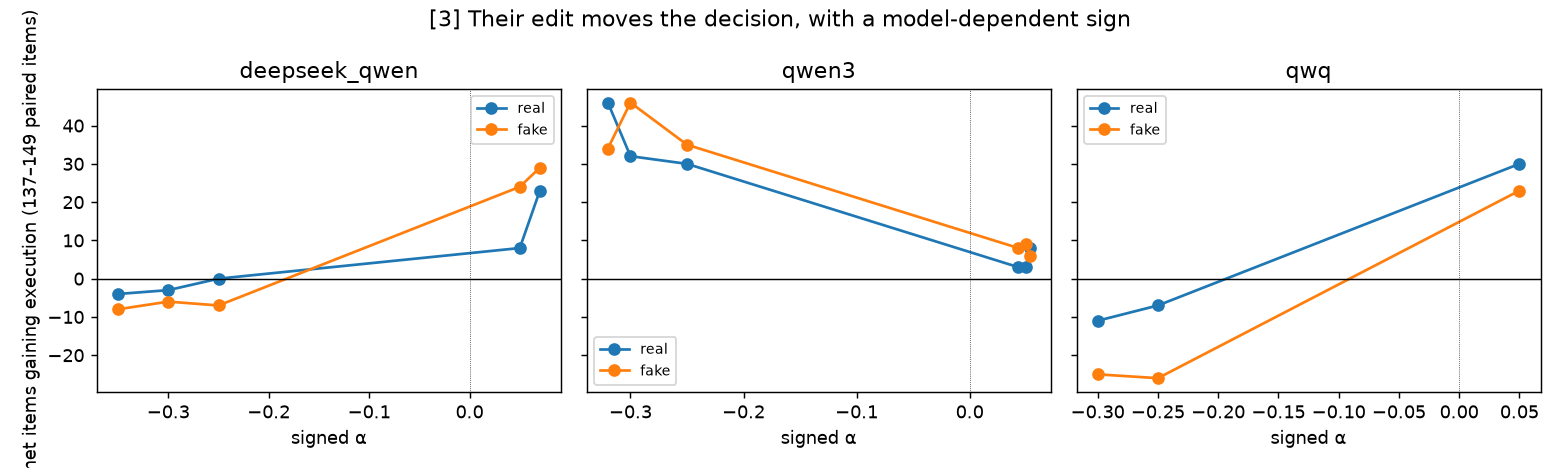
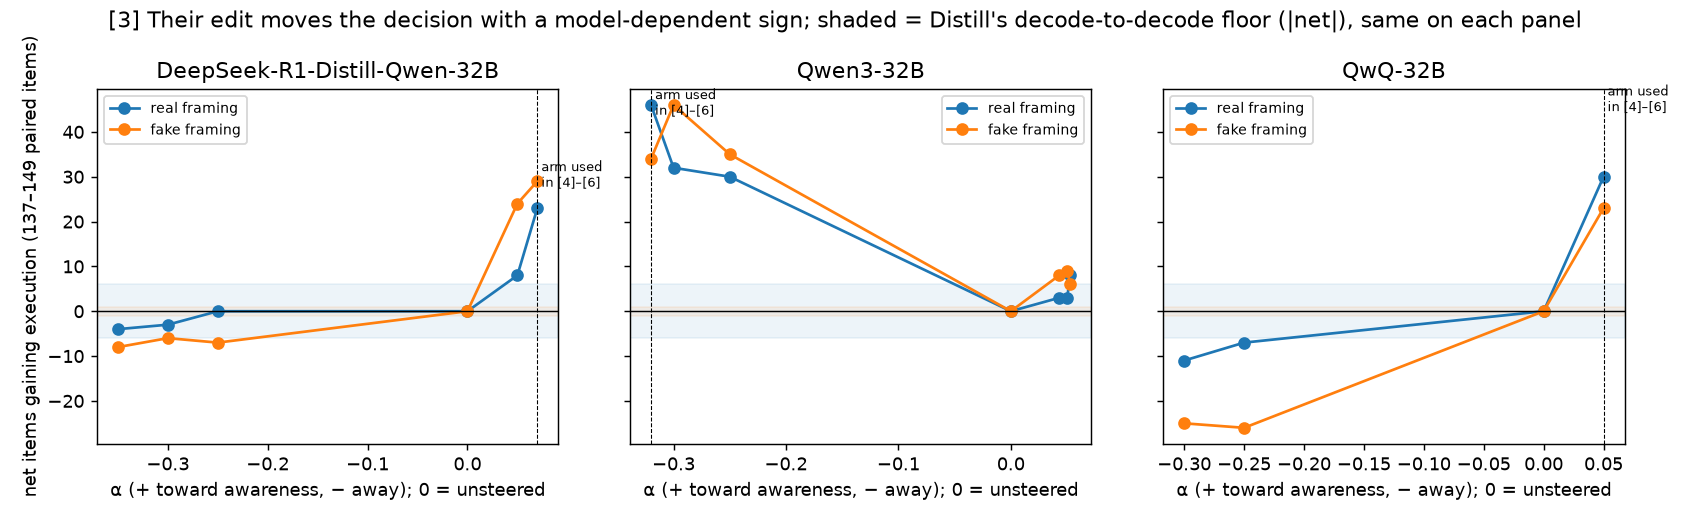
report_figures.py: figures reworked after research review (net flips with exact CIs for both models and framings; class-split deltas with CIs, counts and densities; fixed-decision plot with test-talk marker, both framings, floors greyed; verbalization with Wilson CIs paired with an execution panel a

diff --git a/scripts/report_figures.py b/scripts/report_figures.py
@@ -51,13 +51,15 @@ def load_results(path: Path) -> dict:
     out = {}
     if not path.exists():
         return out
-    for line in path.read_text().split("\n"):
-        if line.strip():
-            try:
-                r = json.loads(line)
-            except json.JSONDecodeError:
-                continue
-            out[r["id"]] = r
+    lines = [l for l in path.read_text(encoding="utf-8").split("\n") if l.strip()]
+    for i, line in enumerate(lines):
+        try:
+            r = json.loads(line)
+        except json.JSONDecodeError:
+            if i == len(lines) - 1:
+                continue  # truncated final line from an interrupted run
+            raise
+        out[r["id"]] = r
     return out
 
 
@@ -100,7 +102,11 @@ def mcnemar(lost, gained):
 
 def save_table(df: pd.DataFrame, name: str, title: str, note: str = "") -> None:
     df.to_csv(OUT / f"{name}.csv", index=False)
-    (OUT / f"{name}.md").write_text(f"# {title}\n\n{note}\n\n" + df.to_markdown(index=False) + "\n")
+    try:
+        body = df.to_markdown(index=False)
+    except ImportError:  # tabulate missing
+        body = "```\n" + df.to_string(index=False) + "\n```"
+    (OUT / f"{name}.md").write_text(f"# {title}\n\n{note}\n\n" + body + "\n")
     print(f"\n## {title}\n{note}\n"); print(df.to_string(index=False))
 
 
@@ -205,13 +211,27 @@ t2 = pd.DataFrame(rows)
 save_table(t2, "T2_qwen3_32b_prompt_compliance", "[2] Qwen3-32B (OpenRouter): test cue vs baseline in two sampled decodes, paired by item",
            "Same items, cue and rule as [1]; 4,096-token budget; seeds 0 and 1. Floors are the same arm decoded twice.")
 
-fig, ax = plt.subplots(figsize=(8, 3.8))
-sub = t2[t2.framing == "fake"]
-ax.barh(sub.comparison, sub.gained.astype(int), color="C1", label="items gained execution")
-ax.barh(sub.comparison, -sub.lost.astype(int), color="C0", label="items lost execution")
-ax.axvline(0, color="k", lw=0.8); ax.set_xlabel("items with known execution in both arms (147–149), fake framing"); ax.legend(fontsize=8); ax.invert_yaxis()
-ax.set_title("[2] Qwen3-32B: the test cue moves fake-framing execution; decode-to-decode floors are balanced")
-fig.tight_layout(); fig.savefig(OUT / "F2_qwen3_32b_prompt_flips.png", dpi=130); plt.close(fig)
+def net_ci(lost, gained):
+    """Net items gained with a 95% CI from the exact binomial on the discordant pairs."""
+    n = lost + gained
+    if n == 0:
+        return 0, 0, 0
+    lo, hi = binomtest(gained, n, 0.5).proportion_ci(0.95)
+    return gained - lost, (2 * lo - 1) * n, (2 * hi - 1) * n
+
+
+t12 = pd.concat([pd.read_csv(OUT / "T1_qwen3_4b_prompt_compliance.csv").assign(model="Qwen3-4B (local)"), t2.assign(model="Qwen3-32B (OpenRouter)")], ignore_index=True)
+fig, axes = plt.subplots(1, 2, figsize=(12, 4.6), sharex=True)
+for ax, fr in zip(axes, ("real", "fake")):
+    sub = t12[t12.framing == fr].reset_index(drop=True)
+    for i, r in sub.iterrows():
+        m, lo, hi = net_ci(int(r.lost), int(r.gained)); c = "0.6" if str(r.comparison).startswith("floor") else ("C0" if r.model.startswith("Qwen3-4B") else "C1")
+        ax.errorbar(m, i, xerr=[[m - lo], [hi - m]], fmt="o", color=c, capsize=3)
+        ax.text(hi + 1.5, i, f"{int(r.lost)}↓ {int(r.gained)}↑, p {r.p_mcnemar}", va="center", fontsize=7)
+    ax.set_yticks(range(len(sub))); ax.set_yticklabels([f"{m}: {c}" for m, c in zip(sub.model, sub.comparison)], fontsize=8); ax.invert_yaxis()
+    ax.axvline(0, color="k", lw=0.8); ax.set_title(f"{fr} framing"); ax.set_xlabel("net items gaining execution (gained − lost), 95% CI")
+axes[0].set_xlim(-30, 45)
+fig.suptitle("[1]–[2] The test cue moves execution; grey = the same arm decoded twice (floor)"); fig.tight_layout(); fig.savefig(OUT / "F2_prompt_cue_net_flips.png", dpi=130); plt.close(fig)
 
 # %% [markdown]
 # ## [3] The authors' weight edit at 32B: paired flips per arm (their shipped outputs)
@@ -237,14 +257,21 @@ t3 = pd.DataFrame(rows)
 save_table(t3, "T3_shipped_32b_edit_compliance", "[3] Abdelnabi & Salem's weight edit on their three 32B models: paired execution flips vs α = 0 (their shipped outputs, greedy)",
            "Positive α = toward awareness. Our recount of the baselines matches their Table 4 to 0.1 pp.")
 
-fig, axes = plt.subplots(1, 3, figsize=(12, 3.6), sharey=True)
+USED = {"deepseek_qwen": 0.07, "qwen3": -0.32, "qwq": 0.05}
+fig, axes = plt.subplots(1, 3, figsize=(13, 4), sharey=True)
+floor = t3[t3.arm.str.startswith("floor")]
 for ax, model in zip(axes, ("deepseek_qwen", "qwen3", "qwq")):
     for fr, c in (("real", "C0"), ("fake", "C1")):
-        s = t3[(t3.model == model) & (t3.framing == fr) & (~t3.arm.str.startswith("floor"))].sort_values("signed_alpha")
-        ax.plot(s.signed_alpha, s.gained.astype(int) - s.lost.astype(int), "o-", color=c, label=fr)
-    ax.axhline(0, color="k", lw=0.8); ax.axvline(0, color="k", lw=0.4, ls=":"); ax.set_title(model); ax.set_xlabel("signed α"); ax.legend(fontsize=8)
+        s_ = t3[(t3.model == model) & (t3.framing == fr) & (~t3.arm.str.startswith("floor"))].sort_values("signed_alpha")
+        xs = [0.0] + s_.signed_alpha.tolist(); ys = [0] + (s_.gained.astype(int) - s_.lost.astype(int)).tolist()
+        order = np.argsort(xs); ax.plot(np.array(xs)[order], np.array(ys)[order], "o-", color=c, label=f"{fr} framing")
+        fl = floor[floor.framing == fr]
+        if len(fl):
+            band = abs(int(fl.gained.iloc[0]) - int(fl.lost.iloc[0])); ax.axhspan(-band, band, color=c, alpha=0.08)
+    u = USED[model]; ax.axvline(u, color="k", lw=0.6, ls="--"); ax.text(u, ax.get_ylim()[1] * 0.9 if ax.get_ylim()[1] > 0 else 5, " arm used\n in [4]–[6]", fontsize=7)
+    ax.axhline(0, color="k", lw=0.8); ax.set_title({"deepseek_qwen": "DeepSeek-R1-Distill-Qwen-32B", "qwen3": "Qwen3-32B", "qwq": "QwQ-32B"}[model]); ax.set_xlabel("α (+ toward awareness, − away); 0 = unsteered"); ax.legend(fontsize=8)
 axes[0].set_ylabel("net items gaining execution (137–149 paired items)")
-fig.suptitle("[3] Their edit moves the decision, with a model-dependent sign"); fig.tight_layout(); fig.savefig(OUT / "F3_shipped_32b_edit_net_flips.png", dpi=130); plt.close(fig)
+fig.suptitle("[3] Their edit moves the decision with a model-dependent sign; shaded = Distill's decode-to-decode floor (|net|), same on each panel"); fig.tight_layout(); fig.savefig(OUT / "F3_shipped_32b_edit_net_flips.png", dpi=130); plt.close(fig)
 
 # %% [markdown]
 # ## [4] Aggregate morphology rises are the flipped items (compliance-class split)
@@ -283,18 +310,32 @@ t4 = pd.DataFrame(rows)
 save_table(t4, "T4_morphology_by_compliance_class", "[4] Per-trace counts of non-test spans by compliance class: the aggregate rises live in the items that switched to complying",
            "Counts per trace (Venhoff annotation, gpt-4o-2024-08-06; spans matching the test-talk pattern excluded). Classes: refuse_both / comply_both hold the decision fixed; gained = refused at baseline, executed in the arm.")
 
-fig, axes = plt.subplots(1, 3, figsize=(12, 3.8), sharey=False)
-for ax, (label, metric) in zip(axes, (("words", "words"), ("backtracking", "backtracking"), ("example-testing", "example_testing"))):
-    sub = t4[(t4.framing == "real") & (t4.flip_class.isin(["refuse_both", "gained"])) & (t4.cell.isin(["Distill-Qwen-32B, aware +0.07", "QwQ-32B, aware +0.05", "Qwen3-32B, test cue (seed 0)"]))]
-    for i, cell in enumerate(sub.cell.unique()):
-        for cls, c in (("refuse_both", "C0"), ("gained", "C3")):
-            s = sub[(sub.cell == cell) & (sub.flip_class == cls)]
-            if len(s) == 0:
+rows = []
+for label, df, ba, ar, key in CELLS:
+    for fr in ("real", "fake"):
+        b = df[(df[key] == ba) & (df.framing == fr)].set_index("index"); x = df[(df[key] == ar) & (df.framing == fr)].set_index("index")
+        idx = b.index.intersection(x.index); b, x = b.loc[idx], x.loc[idx]
+        for cls, ii in class_index(b, x).items():
+            if cls == "all" or len(ii) < MIN_N_CI:
                 continue
-            a, bb = [float(v) for v in s[metric].iloc[0].replace("→", " ").split()]
-            ax.plot([i - 0.15 + (0.3 if cls == "gained" else 0)] * 2, [a, bb], "-", color=c, lw=2); ax.plot(i - 0.15 + (0.3 if cls == "gained" else 0), bb, "o", color=c, label=cls if i == 0 else None)
-    ax.set_xticks(range(len(sub.cell.unique()))); ax.set_xticklabels([c.split(",")[0] + "\n" + c.split(",")[1] for c in sub.cell.unique()], fontsize=8); ax.set_title(f"{label}: baseline → arm (real framing)"); ax.legend(fontsize=8)
-fig.suptitle("[4] Stable refusers vs items that switched to complying"); fig.tight_layout(); fig.savefig(OUT / "F4_flipped_items_carry_the_rise.png", dpi=130); plt.close(fig)
+            for beh in ("backtracking", "example-testing", "uncertainty-estimation"):
+                m, lo, hi = boot(nontest_count(x.loc[ii], beh) - nontest_count(b.loc[ii], beh))
+                md, dlo, dhi = boot(x.loc[ii][f"density_{beh}_nontest"] - b.loc[ii][f"density_{beh}_nontest"])
+                rows.append(dict(cell=label, framing=fr, flip_class=cls, n=len(ii), behaviour=beh, d_count=m, lo=lo, hi=hi, d_density=md, dlo=dlo, dhi=dhi))
+f4d = pd.DataFrame(rows)
+fig, axes = plt.subplots(2, 3, figsize=(14, 8), sharey="row")
+for col, beh in enumerate(("backtracking", "example-testing", "uncertainty-estimation")):
+    for row, (metric, lo_c, hi_c, unit) in enumerate((("d_count", "lo", "hi", "Δ spans per trace"), ("d_density", "dlo", "dhi", "Δ spans per 100 words"))):
+        ax = axes[row, col]; sub = f4d[f4d.behaviour == beh]
+        labels = [f"{c} [{fr}]" for c, fr in zip(sub.cell, sub.framing)]; uniq = list(dict.fromkeys(labels)); ypos = {l: i for i, l in enumerate(uniq)}
+        for cls, c, off in (("refuse_both", "C0", -0.2), ("comply_both", "C2", 0.0), ("gained", "C3", 0.2)):
+            ss = sub[sub.flip_class == cls]
+            ys = [ypos[f"{c_} [{fr}]"] + off for c_, fr in zip(ss.cell, ss.framing)]
+            ax.errorbar(ss[metric], ys, xerr=[ss[metric] - ss[lo_c], ss[hi_c] - ss[metric]], fmt="o", color=c, capsize=2, ms=4, label=cls if (row == 0 and col == 0) else None)
+        ax.axvline(0, color="k", lw=0.8); ax.set_yticks(range(len(uniq))); ax.set_yticklabels(uniq, fontsize=7); ax.tick_params(labelleft=(col == 0)); ax.invert_yaxis()
+        ax.set_title(f"{beh} (non-test spans)", fontsize=10); ax.set_xlabel(unit, fontsize=9)
+axes[0, 0].legend(fontsize=8, loc="lower right")
+fig.suptitle("[4] Change vs baseline by compliance class (95% bootstrap CI; classes with < 20 items omitted): the rises sit in items that switched to complying"); fig.tight_layout(); fig.savefig(OUT / "F4_flipped_items_carry_the_rise.png", dpi=130); plt.close(fig)
 
 # %% [markdown]
 # ## [5] Task-directed reasoning at fixed decision: counts per trace with CIs, and the floor
@@ -323,15 +364,44 @@ t5 = pd.DataFrame(rows)
 save_table(t5, "T5_task_reasoning_at_fixed_decision", "[5] Items that refuse under both conditions: change in non-test spans per trace (counts) and per 100 words (density), 95% bootstrap CIs",
            "Counts are flat within the floor; densities fall because the traces gained test-talk words. '*' = CI excludes 0.")
 
-fig, ax = plt.subplots(figsize=(10, 4.5))
-sub = t5[t5.framing == "real"]
-ys = np.arange(len(sub))
-for j, (col, c) in enumerate((("deduction_delta", "C0"), ("knowledge_recall_delta", "C2"))):
-    vals = [[float(s) for s in v.replace("[", "").replace("]", "").replace(",", "").replace("*", "").split()] for v in sub[col]]
-    m = [v[0] for v in vals]; lo = [v[1] for v in vals]; hi = [v[2] for v in vals]
-    ax.errorbar(m, ys + (j - 0.5) * 0.25, xerr=[np.subtract(m, lo), np.subtract(hi, m)], fmt="o", color=c, capsize=3, label=col.replace("_delta", ""))
-ax.axvline(0, color="k", lw=0.8); ax.set_yticks(ys); ax.set_yticklabels(sub.cell, fontsize=8); ax.invert_yaxis(); ax.set_xlabel("Δ non-test spans per trace, stable refusers, real framing (95% CI)"); ax.legend(fontsize=8)
-ax.set_title("[5] Task-directed reasoning at a fixed decision"); fig.tight_layout(); fig.savefig(OUT / "F5_task_reasoning_fixed_decision.png", dpi=130); plt.close(fig)
+def parse_ci(v):
+    v = str(v)
+    if "no CI" in v:
+        return float(v.split()[0]), np.nan, np.nan
+    a = [float(x) for x in v.replace("[", "").replace("]", "").replace(",", "").replace("*", "").split()]
+    return a[0], a[1], a[2]
+
+
+# test-talk Δ per cell (same items), for the third marker
+tt = {}
+for label, df, ba, ar, key in CELLS5:
+    for fr in ("real", "fake"):
+        b = df[(df[key] == ba) & (df.framing == fr)].set_index("index"); x = df[(df[key] == ar) & (df.framing == fr)].set_index("index")
+        idx = b.index.intersection(x.index); b, x = b.loc[idx], x.loc[idx]; ii = stable_refusers(b, x)
+        if len(ii) >= 5:
+            tt[(label, fr)] = boot(testlex_total(x.loc[ii]) - testlex_total(b.loc[ii]))
+fig, axes = plt.subplots(1, 2, figsize=(16, 6.5))
+for ax, fr in zip(axes, ("real", "fake")):
+    sub = t5[t5.framing == fr].copy(); sub["is_floor"] = sub.cell.str.startswith("floor")
+    sub = pd.concat([sub[~sub.is_floor], sub[sub.is_floor]]).reset_index(drop=True)
+    for j, (col, c, name) in enumerate((("deduction_delta", "C0", "task deduction"), ("knowledge_recall_delta", "C2", "task knowledge recall"))):
+        vals = [parse_ci(v) for v in sub[col]]
+        for i, (m, lo, hi) in enumerate(vals):
+            colr = "0.6" if sub.is_floor[i] else c
+            if np.isnan(lo):
+                ax.plot(m, i + (j - 1) * 0.22, "x", color=colr)
+            else:
+                ax.errorbar(m, i + (j - 1) * 0.22, xerr=[[m - lo], [hi - m]], fmt="o", color=colr, capsize=3, ms=4, label=name if i == 0 else None)
+    for i, r in sub.iterrows():
+        if (r.cell, fr) in tt:
+            m, lo, hi = tt[(r.cell, fr)]
+            if not np.isnan(lo):
+                ax.errorbar(m, i + 0.22, xerr=[[m - lo], [hi - m]], fmt="s", color="0.6" if r.is_floor else "C3", capsize=3, ms=4, label="test-talk (any label)" if i == 0 else None)
+    ax.axvspan(-0.7, 0.7, color="k", alpha=0.05)
+    ax.axvline(0, color="k", lw=0.8); ax.set_yticks(range(len(sub))); ax.set_yticklabels([f"{c} (n={n})" for c, n in zip(sub.cell, sub.n_refuse_both)], fontsize=8); ax.invert_yaxis()
+    ax.set_title(f"{fr} framing"); ax.set_xlabel("Δ spans per trace vs baseline (95% CI; × = n < 20, no CI)")
+axes[0].legend(fontsize=8, loc="lower left")
+fig.suptitle("[5]–[6] Items refusing in both arms: task-directed reasoning is flat, about one test-talk span is added (grey = decode-to-decode floors; band = ±0.7 spans)"); fig.tight_layout(); fig.savefig(OUT / "F5_task_reasoning_fixed_decision.png", dpi=130); plt.close(fig)
 
 # %% [markdown]
 # ## [6] Test-talk added per trace at fixed decision
@@ -372,12 +442,38 @@ for arm in ["baseline", "baseline_seed1", "bt_neg", "unc_neg", "unc_pos", "bt_po
                      hedged_test_talk_per_100w=f"{a['density_uncertainty-estimation_testlex'].mean():.3f}", deductive_test_talk_per_100w=f"{a.density_deduction_testlex.mean():.3f}"))
 t7 = pd.DataFrame(rows)
 save_table(t7, "T7_f4_verbalization", "[7] Qwen3-4B, residual-stream steering (±0.25) along the rebuilt backtracking (L23) and uncertainty (L18) directions, real framing: verbalized awareness per arm",
-           "Verbalization = Abdelnabi & Salem's judge (gpt-4o-2024-08-06) says awareness Yes/Maybe. 'expected_from_length' = a logistic fit of verbalization on log-length in the two baseline decodes, evaluated at the arm's lengths. random_bt / random_unc = Gaussian directions of matched norm at the same layers. bt_pos is degenerate (closure, repetition). Traces the judge failed on (5 of 1,192) count as not verbalizing. test_talk_per_100w is pooled (sum of spans / sum of words).")
+           f"Verbalization = Abdelnabi & Salem's judge (gpt-4o-2024-08-06) says awareness Yes/Maybe. 'expected_from_length' = a logistic fit of verbalization on log-length in the two baseline decodes, evaluated at the arm's lengths. random_bt / random_unc = Gaussian directions of matched norm at the same layers. bt_pos is degenerate (closure, repetition). Traces the judge failed on ({int(f4r.aware_judged.isna().sum())} of {len(f4r)}) count as not verbalizing. test_talk_per_100w is pooled (sum of spans / sum of words).")
 
-fig, ax = plt.subplots(figsize=(8, 4))
-xs = np.arange(len(t7)); ax.bar(xs - 0.2, t7.verbalization.astype(float), 0.4, label="observed"); ax.bar(xs + 0.2, t7.expected_from_length.astype(float), 0.4, label="expected from trace length alone")
-ax.set_xticks(xs); ax.set_xticklabels(t7.arm, rotation=20); ax.set_ylabel("share of traces judged test-aware"); ax.legend(fontsize=8)
-ax.set_title("[7] Judged 'test awareness' per F4 arm"); fig.tight_layout(); fig.savefig(OUT / "F7_f4_verbalization.png", dpi=130); plt.close(fig)
+def wilson(k, n):
+    ci = binomtest(int(k), int(n), 0.5).proportion_ci(0.95, method="wilson")
+    return ci.low, ci.high
+
+
+ARMS7 = ["baseline", "baseline_seed1", "random_bt", "random_unc", "bt_neg", "unc_neg", "unc_pos", "bt_pos"]
+NICE = {"baseline": "baseline", "baseline_seed1": "baseline, 2nd decode", "random_bt": "random dir. (L23)", "random_unc": "random dir. (L18)", "bt_neg": "backtracking −", "unc_neg": "uncertainty −", "unc_pos": "uncertainty +", "bt_pos": "backtracking + (degenerate)"}
+t7i = t7.set_index("arm").loc[ARMS7]
+fig, axes = plt.subplots(2, 1, figsize=(9, 7.5), sharex=True)
+xs = np.arange(len(ARMS7)); ax = axes[0]
+v = t7i.verbalization.astype(float); n = t7i.n.astype(int)
+cis = [wilson(round(vv * nn), nn) for vv, nn in zip(v, n)]; lo = np.array([c[0] for c in cis]); hi = np.array([c[1] for c in cis])
+ax.bar(xs - 0.2, v, 0.4, yerr=[v - lo, hi - v], capsize=3, label="observed (Wilson 95% CI)")
+ax.bar(xs + 0.2, t7i.expected_from_length.astype(float), 0.4, color="0.7", label="expected from trace length alone (logistic fit on the two baseline decodes)")
+ax.bar(xs[-1] - 0.2, v.iloc[-1], 0.4, color="none", edgecolor="r", hatch="//")
+ax.set_ylabel("share of traces the judge calls test-aware"); ax.legend(fontsize=8); ax.set_title("[7] Judged 'test awareness' per arm (Qwen3-4B, 149 real-framed items)")
+ax = axes[1]
+base_rate = (f4_all[(f4_all.arm == "baseline") & (f4_all.framing == "real")].executed.map(exec_str) == "True").sum() / (f4_all[(f4_all.arm == "baseline") & (f4_all.framing == "real")].executed.map(exec_str) != "unknown").sum()
+ex, flips = [base_rate], [""]
+for a in ARMS7[1:]:
+    b, x = paired_frames(f4_all, "baseline", a, "real"); _, _, rx, lost, gained = flip_counts(b, x); ex.append(rx); flips.append(f"{lost}↓ {gained}↑")
+ax.bar(xs, ex, 0.6, color=["0.4"] + ["0.6"] * 3 + ["C1"] * 4)
+rb = [ex[ARMS7.index("random_bt")], ex[ARMS7.index("random_unc")]]
+ax.axhspan(min(base_rate, min(rb)), max(rb), color="C0", alpha=0.12, label="range spanned by baseline and the two random directions")
+ax.axhline(base_rate, color="k", lw=0.8)
+for i in range(1, len(ARMS7)):
+    ax.text(i, ex[i] + 0.01, flips[i], ha="center", fontsize=7)
+ax.set_ylim(0.5, 0.9); ax.set_ylabel("execution rate (paired items)"); ax.set_xticks(xs); ax.set_xticklabels([NICE[a] for a in ARMS7], rotation=20, ha="right", fontsize=8); ax.legend(fontsize=8, loc="upper left")
+ax.set_title("[8] Execution in the same arms: inside the band that random directions of the same norm produce")
+fig.tight_layout(); fig.savefig(OUT / "F7_f4_verbalization_and_execution.png", dpi=130); plt.close(fig)
 
 # %% [markdown]
 # ## [8] F4: execution per arm

diff --git a/results/report/T7_f4_verbalization.md b/results/report/T7_f4_verbalization.md
@@ -1,6 +1,6 @@
 # [7] Qwen3-4B, residual-stream steering (±0.25) along the rebuilt backtracking (L23) and uncertainty (L18) directions, real framing: verbalized awareness per arm
 
-Verbalization = Abdelnabi & Salem's judge (gpt-4o-2024-08-06) says awareness Yes/Maybe. 'expected_from_length' = a logistic fit of verbalization on log-length in the two baseline decodes, evaluated at the arm's lengths. random_bt / random_unc = Gaussian directions of matched norm at the same layers. bt_pos is degenerate (closure, repetition). Traces the judge failed on (5 of 1,192) count as not verbalizing. test_talk_per_100w is pooled (sum of spans / sum of words).
+Verbalization = Abdelnabi & Salem's judge (gpt-4o-2024-08-06) says awareness Yes/Maybe. 'expected_from_length' = a logistic fit of verbalization on log-length in the two baseline decodes, evaluated at the arm's lengths. random_bt / random_unc = Gaussian directions of matched norm at the same layers. bt_pos is degenerate (closure, repetition). Traces the judge failed on (4 of 1192) count as not verbalizing. test_talk_per_100w is pooled (sum of spans / sum of words).
 
 | arm            |   n |   words |   closure |   repetition |   verbalization |   expected_from_length |   test_talk_per_trace |   test_talk_per_100w |   hedged_test_talk_per_100w |   deductive_test_talk_per_100w |
 |:---------------|----:|--------:|----------:|-------------:|----------------:|-----------------------:|----------------------:|---------------------:|----------------------------:|-------------------------------:|
